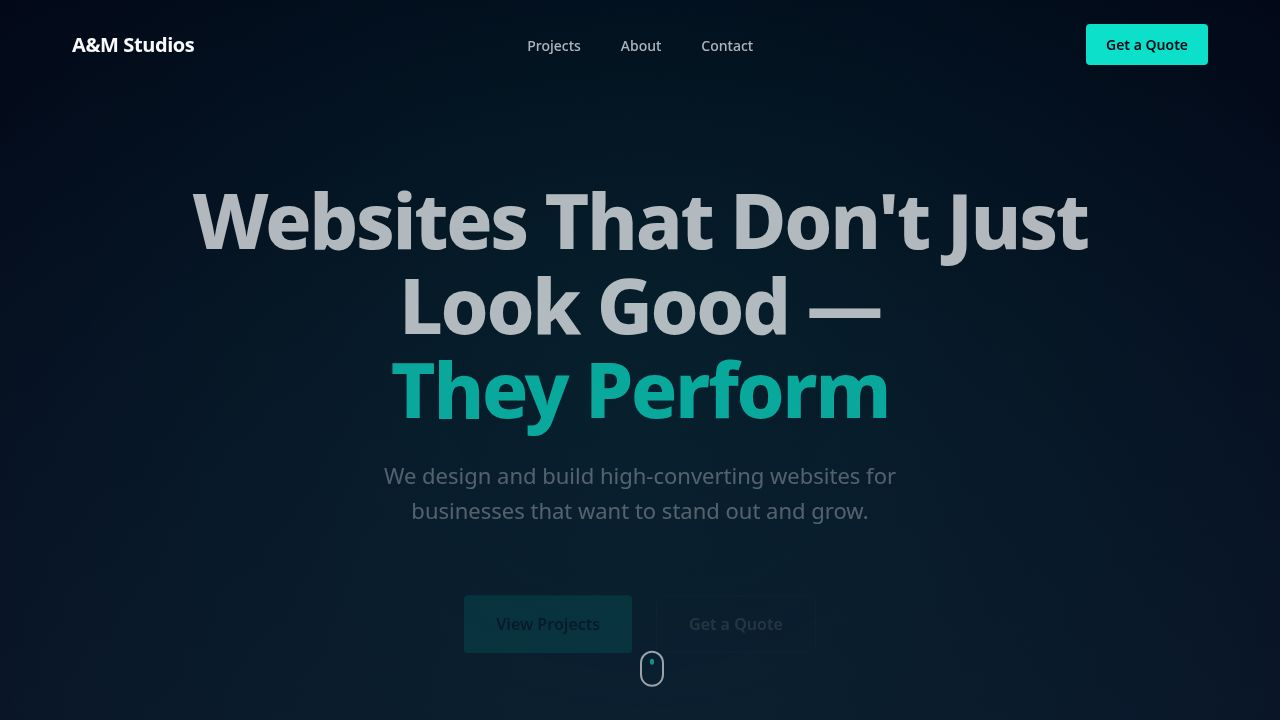
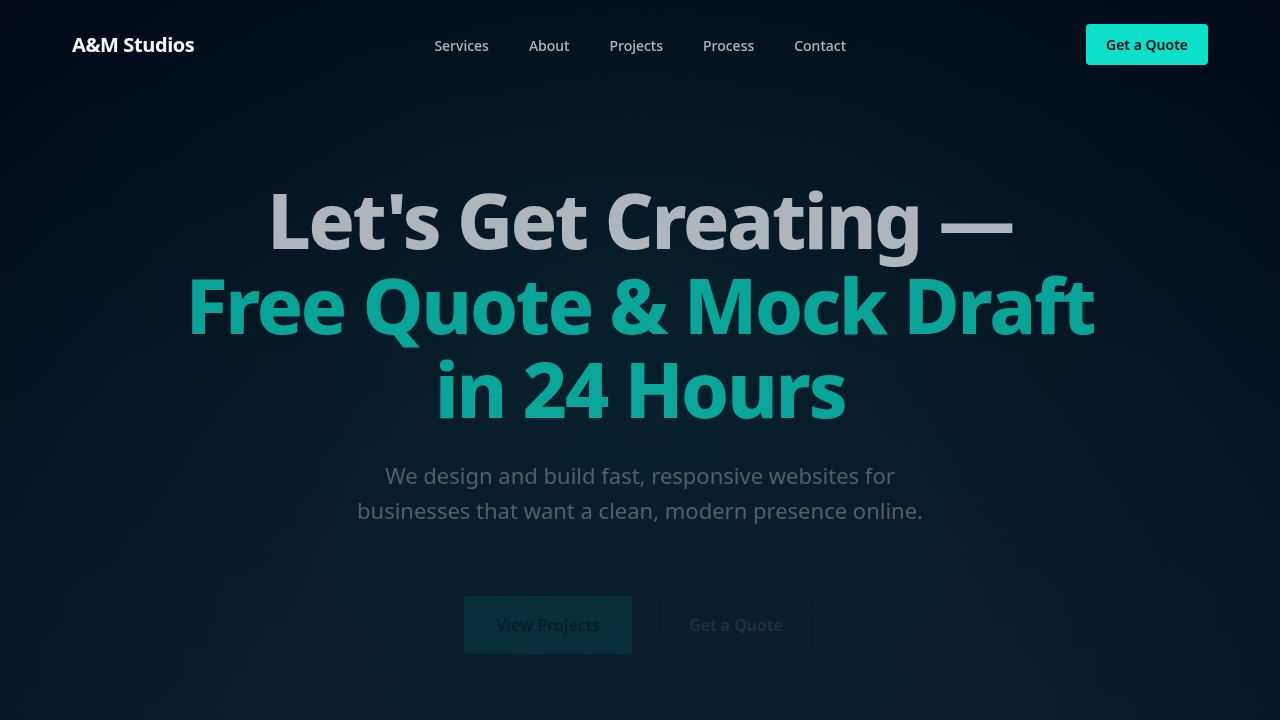
Update website copy and adjust layout for better readability
Refactor text content and apply CSS adjustments to Hero, Services, About, Process, and Contact components.

Replit-Commit-Author: Agent
Replit-Commit-Session-Id: c720e87e-50c9-4499-9a26-7a63dec50880
Replit-Commit-Checkpoint-Type: full_checkpoint
Replit-Commit-Event-Id: 06350f49-7633-4ddf-b3a3-19361e934e6c
Replit-Commit-Screenshot-Url: https://storage.googleapis.com/screenshot-production-us-central1/7f4e4c0c-5123-4d83-9f7e-7d9ea60100a5/c720e87e-50c9-4499-9a26-7a63dec50880/2OTN2uK
Replit-Helium-Checkpoint-Created: true

diff --git a/artifacts/am-studios/src/components/Process.tsx b/artifacts/am-studios/src/components/Process.tsx
@@ -3,9 +3,9 @@ import { motion } from 'framer-motion';
 import styles from './Process.module.css';
 
 const steps = [
-  { number: "01", title: "Converse", desc: "Understanding your goals, needs and audience." },
-  { number: "02", title: "Design", desc: "Your two new favorite artist mixing our passion with your vision" },
-  { number: "03", title: "Launch", desc: "Test Stage & Phone/Video call review, Then we will be going live." }
+  { number: "01", title: "Converse", desc: "We start by understanding your goals, your audience, and what success looks like for you." },
+  { number: "02", title: "Design", desc: "We bring your vision to life, blending your brand identity with our eye for clean, modern design." },
+  { number: "03", title: "Launch", desc: "After a thorough review and your approval, we go live — on time, on budget." }
 ];
 
 const Process: React.FC = () => {

diff --git a/artifacts/am-studios/src/components/Hero.tsx b/artifacts/am-studios/src/components/Hero.tsx
@@ -27,7 +27,7 @@ const Hero: React.FC = () => {
             animate={{ opacity: 1, y: 0 }}
             transition={{ duration: 0.8, delay: 0.2 }}
           >
-            Let's Get Creating! — <span> Free Quotes & Mock Draft in 1 day! </span>
+            Let's Get Creating — <span>Free Quote & Mock Draft in 24 Hours</span>
           </motion.h1>
           
           <motion.p 
@@ -36,7 +36,7 @@ const Hero: React.FC = () => {
             animate={{ opacity: 1 }}
             transition={{ duration: 0.8, delay: 0.4 }}
           >
-            We design and build, smooth & responsive websites for businesses that want sleek and modern designs.
+            We design and build fast, responsive websites for businesses that want a clean, modern presence online.
           </motion.p>
           
           <motion.div 

diff --git a/artifacts/am-studios/src/components/Services.tsx b/artifacts/am-studios/src/components/Services.tsx
@@ -5,15 +5,15 @@ import styles from './Services.module.css';
 const services = [
   {
     title: "Web Design",
-    description: "Smooth, immersive visuals to naturally guide your users to action"
+    description: "Visuals crafted to reflect your brand and guide visitors toward action."
   },
   {
     title: "Web Development",
-    description: "Robust, scalable, and responsive applications built with modern AI engineering practices."
+    description: "Scalable, responsive applications built with clean, modern engineering."
   },
   {
     title: "Performance Optimization",
-    description: "Optimized for speed and seamless interaction—so your users stay engaged and convert."
+    description: "Faster load times, smoother interactions, and better conversion rates."
   }
 ];
 

diff --git a/artifacts/am-studios/src/components/Contact.tsx b/artifacts/am-studios/src/components/Contact.tsx
@@ -57,11 +57,10 @@ const Contact: React.FC = () => {
           viewport={{ once: true, margin: "-100px" }}
           transition={{ duration: 0.6 }}
         >
-          <h2 className={styles.title}>Let's Build Something That Works For You</h2>
-          <p className={styles.subtitle}>Ready to start your next project? Drop us a line.</p>
+          <h2 className={styles.title}>Let's Build Something That Works</h2>
+          <p className={styles.subtitle}>Ready to get started? Send us a message and we'll have a quote and mock draft back to you within 24 hours.</p>
 
           <form className={styles.form} onSubmit={handleSubmit}>
-            {/* Honeypot — hidden from real users */}
             <input
               type="text"
               name="_gotcha"

diff --git a/artifacts/am-studios/src/components/About.tsx b/artifacts/am-studios/src/components/About.tsx
@@ -17,7 +17,7 @@ const About: React.FC = () => {
             <div className={styles.avatar}></div>
           </div>
           <p className={styles.text}>
-            At A&M Studios, we strive for effeciency, low cost, security & comfort . As you can see with our mock up projects. That they are crafted with a clean design, fast-performance, and warm usability.
+            At A&M Studios, we believe great websites are built on three things: clean design, fast performance, and a process that actually feels easy. Every project we take on is treated with care — from the first conversation to launch day.
           </p>
         </motion.div>
       </div>

diff --git a/artifacts/am-studios/src/components/About.module.css b/artifacts/am-studios/src/components/About.module.css
@@ -50,4 +50,6 @@
   line-height: 1.5;
   color: var(--foreground);
   font-weight: 300;
+  max-width: 640px;
+  margin: 0 auto;
 }
